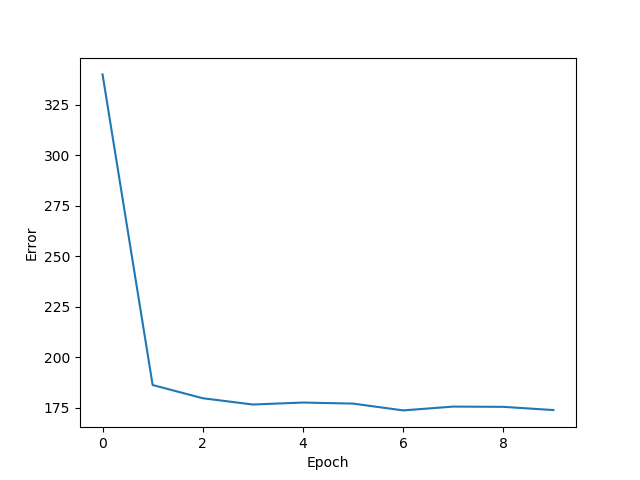
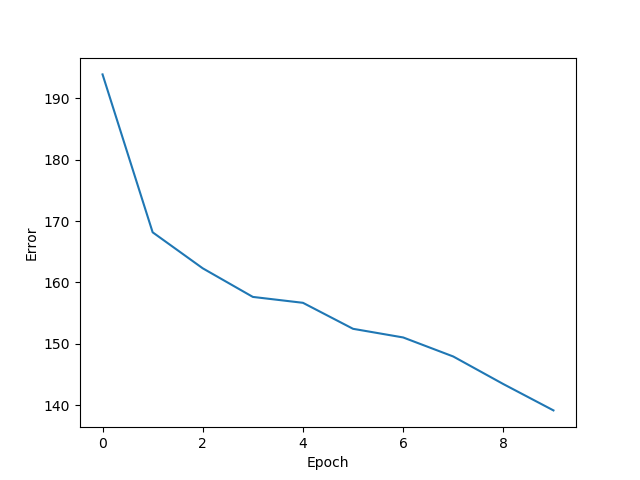
NN tweaks

diff --git a/section3.py b/section3.py
@@ -7,9 +7,11 @@ class Models:
     def __init__(self, train_x, train_y, test_x, test_y):
         self.train_x = train_x
         self.train_y = train_y
+        self.test_x = test_x
+        self.test_y = test_y
 
         # Create a neural net with 2 hidden layers using standardised nuclear plant data
-        self.nn = NeuralNet(self.train_x.shape[1], 50, 2, 1, 0.7)
+        self.nn = NeuralNet(self.train_x.shape[1], 500, 2, 1, 0.7)
 
         # Initialise random forest model
         self.rf = RandomForest(1000, 5)
@@ -32,8 +34,17 @@ class Models:
 
         plt = Plot()
         plt.nn_error_plot(total_error)
-        # Get the weights adjusted by training
-        return self.nn.weights
+
+    # Test the NN
+    def test_nn(self):
+        total = 0
+        for i in range(len(self.test_x.values)):
+            # With weights and biases set, apply testing data
+            self.nn.feed_forward(self.test_x.values[i])
+            total += self.nn.get_accuracy(self.nn.values[-1], self.test_y.values[i])
+
+        acc = (total / len(self.test_x.values)) * 100
+        print(f'{acc}% accurate')
 
     # Train a random forest model
     def train_forest(self):

diff --git a/neural_net.py b/neural_net.py
@@ -29,7 +29,7 @@ class NeuralNet:
         for i in range(self.input_nodes, self.total):
             self.bias[i] = random.random() / random.random()
             for j in range(i + 1, self.total):
-                self.weights[i][j] = random.random() - 1
+                self.weights[i][j] = random.random() * 0.2 - 0.5
 
     # Functionality within hidden layer
     def hidden_layer(self, input_min, input_max):
@@ -119,3 +119,9 @@ class NeuralNet:
     # Sigmoid function to act as activiation function
     def sigmoid(self, x):
         return 1 / (1 + math.exp(-x))
+
+    # Get the accuracy of the neural network
+    def get_accuracy(self, pred, actual):
+        if math.sqrt((pred - actual) ** 2) > 0.5:
+            return 0
+        return 1

diff --git a/main.py b/main.py
@@ -36,7 +36,8 @@ def main():
 
     print('---------- TRAINING MODELS ----------')
     models = Models(train_x, train_y, test_x, test_y)
-    nn_weights = models.train_nn()
+    models.train_nn()
+    models.test_nn()
     
 
     print('---------- TESTING MODELS ----------')
